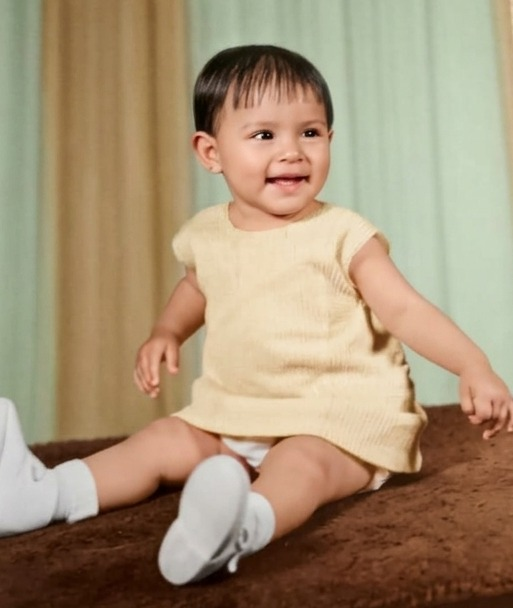
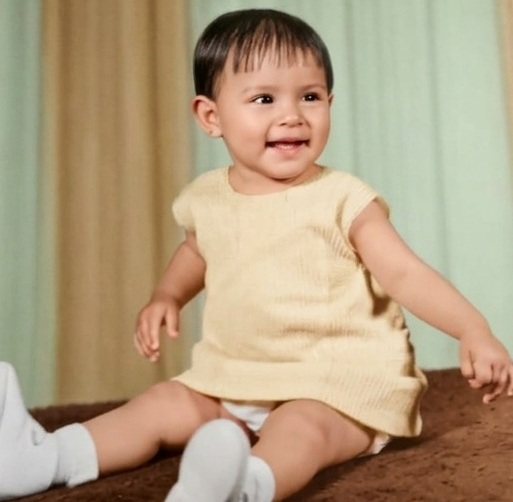
Cambios fotos y flores

diff --git a/index.html b/index.html
@@ -39,7 +39,7 @@
                 Norma Olivia
             </h1>
             <h2>
-                6O años
+                60 años
             </h2>
             <p class="date">
                 Viernes 25 de septiembre · 2026
@@ -124,10 +124,22 @@
         </div>
     </section>
 
+    <!-- CONFIRMACIÓN DE ASISTENCIA -->
+    <section class="rsvp">
+        <h2>Confirmación de asistencia</h2>
+        <p class="rsvp-notice">
+            Agradecemos confirmar tu asistencia con anticipación para poder asignarte tus boletos y lugar en las mesas.
+        </p>
+        <a href="https://wa.me/525546189844?text=Hola,%20confirmo%20mi%20asistencia%20para%20la%20fiesta%20de%20Norma" target="_blank" class="whatsapp-button" rel="noopener noreferrer">
+            Confirmar por WhatsApp
+        </a>
+        <p class="phone-number">O llamando al: <strong>+52 55 4618 9844</strong></p>
+    </section>
+
     <!-- GALERÍA (FOTOS CUADRADAS) -->
     <section class="gallery">
         <h2>
-           Mis recuerdos
+            Mis recuerdos
         </h2>
         <div class="gallery-grid">
             <img src="assets/nina2.png" alt="Foto de recuerdo">
@@ -135,21 +147,11 @@
         </div>
     </section>
 
-    <!-- CONFIRMACIÓN DE ASISTENCIA -->
-    <section class="rsvp">
-        <h2>Confirmación de asistencia</h2>
-        <p class="rsvp-notice">
-            Agradecemos confirmar tu asistencia con anticipación para poder asignarte tus boletos y lugar en las mesas.
-        </p>
-        <a href="https://wa.me/525546189844?text=Hola,%20confirmo%20mi%20asistencia%20para%20la%20fiesta%20de%20Norma%20Olivia" target="_blank" class="whatsapp-button" rel="noopener noreferrer">
-            Confirmar por WhatsApp
-        </a>
-        <p class="phone-number">O llamando al: <strong>+52 55 4618 9844</strong></p>
-    </section>
-
     <!-- FOOTER -->
     <footer>
-        <img src="assets/gardenia.png" alt="Gardenia">
+        <div class="footer-flower-frame">
+            <img src="assets/flor1.jpg" alt="Gardenia">
+        </div>
         <p>
             Gracias por acompañarnos
         </p>

diff --git a/style.css b/style.css
@@ -575,11 +575,58 @@ footer img {
         padding: 30px 20px;
     }
 
+    /* =========================
+   FOOTER & ANIMATIONS
+========================= */
+footer {
+    background: var(--burgundy-dark);
+    color: var(--white);
+    padding: 60px 20px;
+    text-align: center;
+    display: flex;
+    flex-direction: column;
+    align-items: center;
+    gap: 20px;
+}
+
+/* Marco elegante para la flor de cierre */
+.footer-flower-frame {
+    display: inline-flex;
+    align-items: center;
+    justify-content: center;
+    padding: 15px;
+    border: 2px solid var(--gold-accent);
+    border-radius: 50%;
+    background: rgba(255, 255, 255, 0.05);
+    box-shadow: 0 0 20px rgba(229, 195, 120, 0.2);
+}
+
+.footer-flower-frame img {
+    width: 90px;
+    height: 90px;
+    object-fit: cover;
+    border-radius: 50%;
+}
+
+footer p {
+    font-family: 'Cormorant Garamond', serif;
+    font-size: 1.5rem;
+    letter-spacing: 1px;
+}
+
+/* Ajuste Responsive para móviles */
+@media screen and (max-width: 768px) {
     footer {
         padding: 40px 20px;
     }
 
-    footer img {
-        width: 80px;
+    .footer-flower-frame {
+        padding: 10px;
     }
+
+    .footer-flower-frame img {
+        width: 70px;
+        height: 70px;
+    }
+}
 }
